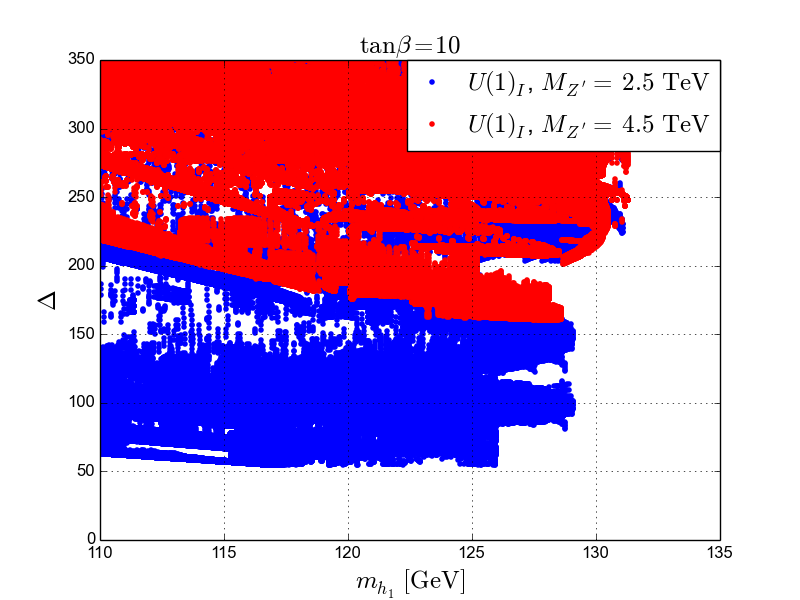
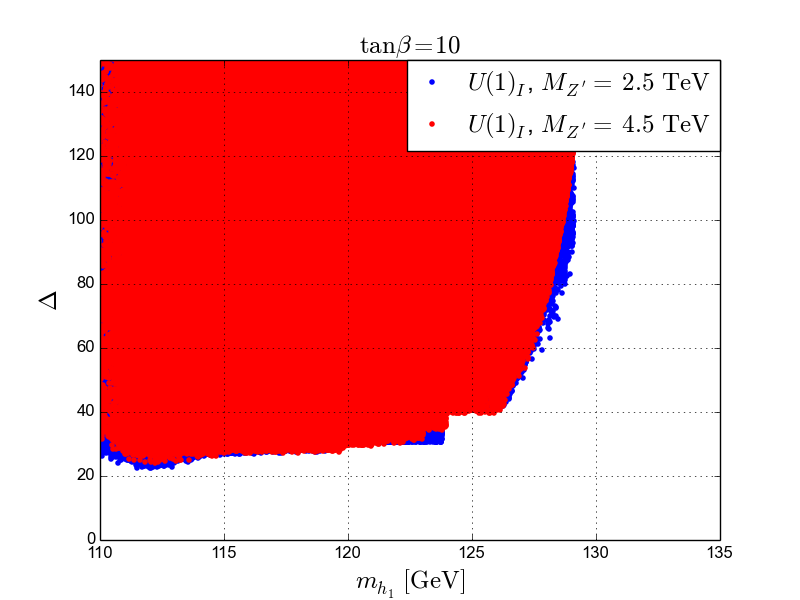
Fixed type in one-loop beta for m_S^2, restored two-loop trace terms to two-loop betas for \lambda and y_t that are missing in the trilinears

Changed region(s): [[0.0938, 0.09, 0.8125, 0.81], [0.0938, 0.78, 0.125, 0.81], [0.0312, 0.48, 0.0625, 0.51]]

diff --git a/paper/e6ssm-tuning-paper.tex b/paper/e6ssm-tuning-paper.tex
@@ -1474,7 +1474,7 @@ and the $O(t^2)$ coefficient in the series expansion are
 &{}\left.+g_1'^2\left [ 4Q_S^2\lambda^2 -6\left ( Q_2^2-Q_Q^2-Q_u^2\right )y_t^2-6\left ( Q_1^2-Q_Q^2-Q_d^2\right )y_b^2 \right.\right.\nonumber\\
 &{}\left.-2\left ( Q_1^2-Q_L^2-Q_e^2\right )y_\tau^2-6\left ( Q_S^2-Q_D^2-Q_{\overline{D}}^2 \right )\Sigma_\kappa-4\left ( Q_S^2-Q_1^2-Q_2^2\right )\Sigma_\lambda\right ]\nonumber\\
 &{}+16g_3^2\left ( y_t^2+y_b^2+\Sigma_\kappa\right ) +\frac{33}{2}g_2^4+\frac{297}{50}g_1^4+2g_1'^4\left [ 2Q_1^4+2Q_2^4+2Q_S^4+\left ( Q_1^2+Q_2^2+Q_S^2\right )\Sigma_{Q}\right ]\nonumber\\
-&{}+\frac{9}{5}g_1^2g_2^2+6g_1'^2g_2^2\left ( Q_1^2+Q_2^2\right )+\frac{6}{5}g_1^2g_1'^2\left (Q_1^2+Q_2^2\right )\bigg \},\label{eq:USSMLambdaBetaTwoLoop}\\
+&{}+\frac{9}{5}g_1^2g_2^2+6g_1'^2g_2^2\left ( Q_1^2+Q_2^2\right )+\frac{6}{5}g_1^2g_1'^2\left [Q_1^2+Q_2^2+\left ( Q_2 - Q_1 \right )\Sigma_Q^Y\right ]\bigg \},\label{eq:USSMLambdaBetaTwoLoop}\\
 b_\lambda^{(2)}&=\lambda \bigg \{ 2\lambda^2\left ( 3\lambda^2 +4\Sigma_\lambda +6\Sigma_\kappa \right )+4\Pi_\lambda + 6\Pi_\kappa +6\left ( \Sigma_\lambda+\frac{3}{2}\Sigma_\kappa\right )^2+7\lambda^2\left ( 3y_t^2+3y_b^2+y_\tau^2\right )\nonumber\\
 &{}+\left ( 3y_t^2+3y_b^2+y_\tau^2\right )\left (2\Sigma_\lambda+3\Sigma_\kappa\right ) +3\left ( \frac{15}{2}y_t^4+\frac{15}{2}y_b^4+\frac{3}{2}y_\tau^4 +5y_b^2y_t^2 +3y_b^2y_\tau^2 +y_t^2y_\tau^2\right )\nonumber\\
 &{}-\frac{1}{5}g_1^2\left ( 12\lambda^2+16y_b^2+22y_t^2+12y_\tau^2+12\Sigma_\lambda +13\Sigma_\kappa \right )\nonumber\\
@@ -1686,7 +1686,7 @@ b_{m_{H_u}^2}^{(2)}&=72y_t^4\left ( m_{H_u}^2+m_{Q3}^2+m_{u3}^2\right )+144y_t^2
 while those for $m_S^2$ are
 \begin{subequations}
 \begin{align}
-\beta_{m_S^2}^{(1)}&=\sum_{i=1}^3\left [ 4\lambda_i^2\left ( m_{H_i^d}^2+m_{H_i^u}^2+m_S^2\right )+4a_{\lambda_i}^2+6\kappa_i\left ( m_S^2+m_{D_i}^2+m_{\overline{D}_i}^2\right )+6a_{\kappa_i}^2\right ]\nonumber\\
+\beta_{m_S^2}^{(1)}&=\sum_{i=1}^3\left [ 4\lambda_i^2\left ( m_{H_i^d}^2+m_{H_i^u}^2+m_S^2\right )+4a_{\lambda_i}^2+6\kappa_i^2\left ( m_S^2+m_{D_i}^2+m_{\overline{D}_i}^2\right )+6a_{\kappa_i}^2\right ]\nonumber\\
 &{}-8Q_S^2g_1'^2M_1'^2+2Q_Sg_1'^2\Sigma_1',\label{eq:USSMms2BetaOneLoop}\\
 \beta_{m_S^2}^{(2)}&=\sum_{i=1}^3\bigg [ -16\lambda_i^2\left ( m_{H_i^u}^2+m_{H_i^d}^2+m_S^2 \right )-24\kappa_i^2\left ( m_{Di}^2+m_{\overline{D}i}^2+m_S^2 \right )\nonumber\\
 &{}-32\lambda_i^2a_{\lambda_i}^2-48\kappa_i^2a_{\kappa_i}^2\bigg ]-12\lambda^2y_t^2\left ( 2m_{H_u}^2+m_{H_d}^2+m_S^2+m_{Q3}^2+m_{u3}^2\right )\nonumber\\
@@ -1744,7 +1744,7 @@ If the one-loop contributions to the effective potential from top and stop loops
 &{}+16g_3^2y_t^2+6g_2^2y_t^2+g_1^2\left ( \frac{6}{5}y_t^2+\frac{2}{5}y_b^2\right )+\frac{128}{9}g_3^4+\frac{33}{2}g_2^4+\frac{3913}{450}g_1^4\nonumber\\
 &{}+2g_1'^4\left [ 2\left ( Q_2^4+Q_Q^4+Q_u^4\right )+\left ( Q_2^2+Q_Q^2+Q_u^2\right )\Sigma_{Q}\right ]+8g_3^2g_2^2+\frac{136}{45}g_3^2g_1^2\nonumber\\
 &{}+\frac{32}{3}g_3^2g_1'^2\left ( Q_Q^2+Q_u^2\right )+g_2^2g_1^2+6g_2^2g_1'^2\left ( Q_2^2+Q_Q^2\right )\nonumber\\
-&{}+\frac{2}{5}g_1^2g_1'^2\left [ 3Q_2^2+\frac{1}{3}Q_Q^2+\frac{16}{3}Q_u^2\right ]\bigg \},\label{eq:USSMYu22BetaTwoLoop}\\
+&{}+\frac{2}{5}g_1^2g_1'^2\left [ 3Q_2^2+\frac{1}{3}Q_Q^2+\frac{16}{3}Q_u^2+\left ( 3Q_2+Q_Q-4Q_u\right )\Sigma_Q^Y\right ]\bigg \},\label{eq:USSMYu22BetaTwoLoop}\\
 b_{y_t}^{(2)}&=y_t\bigg \{ 54y_t^4+\frac{13}{2}y_b^4+13y_t^2y_b^2+y_b^2y_\tau^2+\lambda^2\left ( \frac{5}{2}\lambda^2+15y_t^2+5y_b^2+y_\tau^2+2\Sigma_\lambda+3\Sigma_\kappa \right )\nonumber\\
 &{}-\frac{16}{3}g_3^2\left ( \lambda^2+2y_b^2+12y_t^2\right )-6g_2^2\left ( \lambda^2+y_b^2+6y_t^2\right )-g_1^2\left ( \frac{22}{15}\lambda^2+\frac{4}{3}y_b^2+\frac{52}{5}y_t^2\right )\nonumber\\
 &{}-2g_1'^2\left [ \lambda^2 \left (Q_1^2+2Q_2^2+Q_S^2+Q_Q^2+Q_u^2 \right )+y_b^2\left ( Q_1^2+Q_2^2+2Q_Q^2+Q_u^2+Q_d^2\right )\right.\nonumber\\
